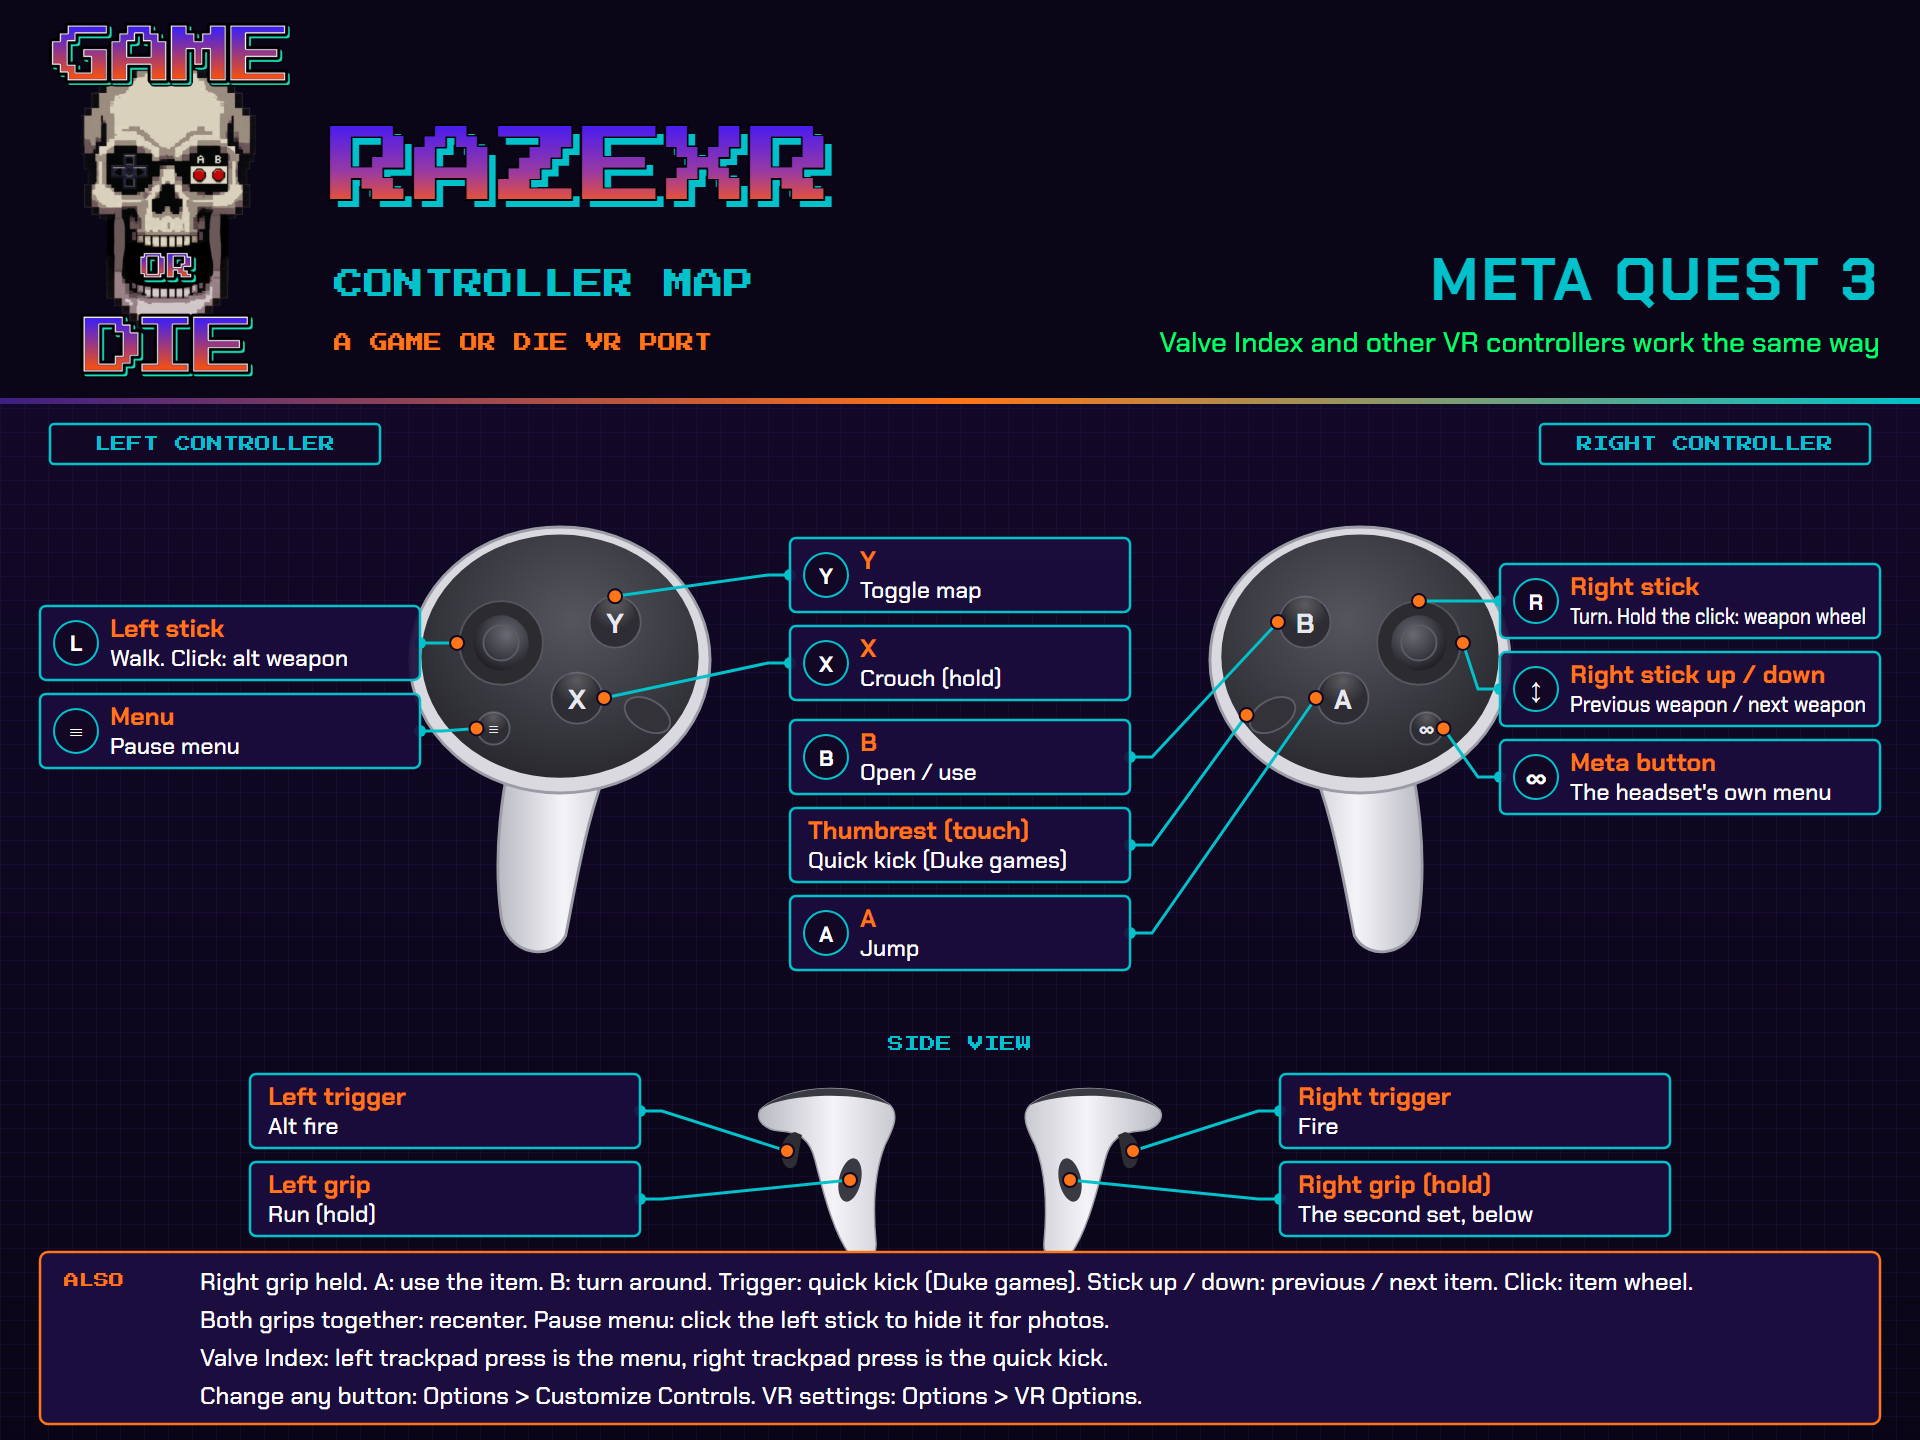
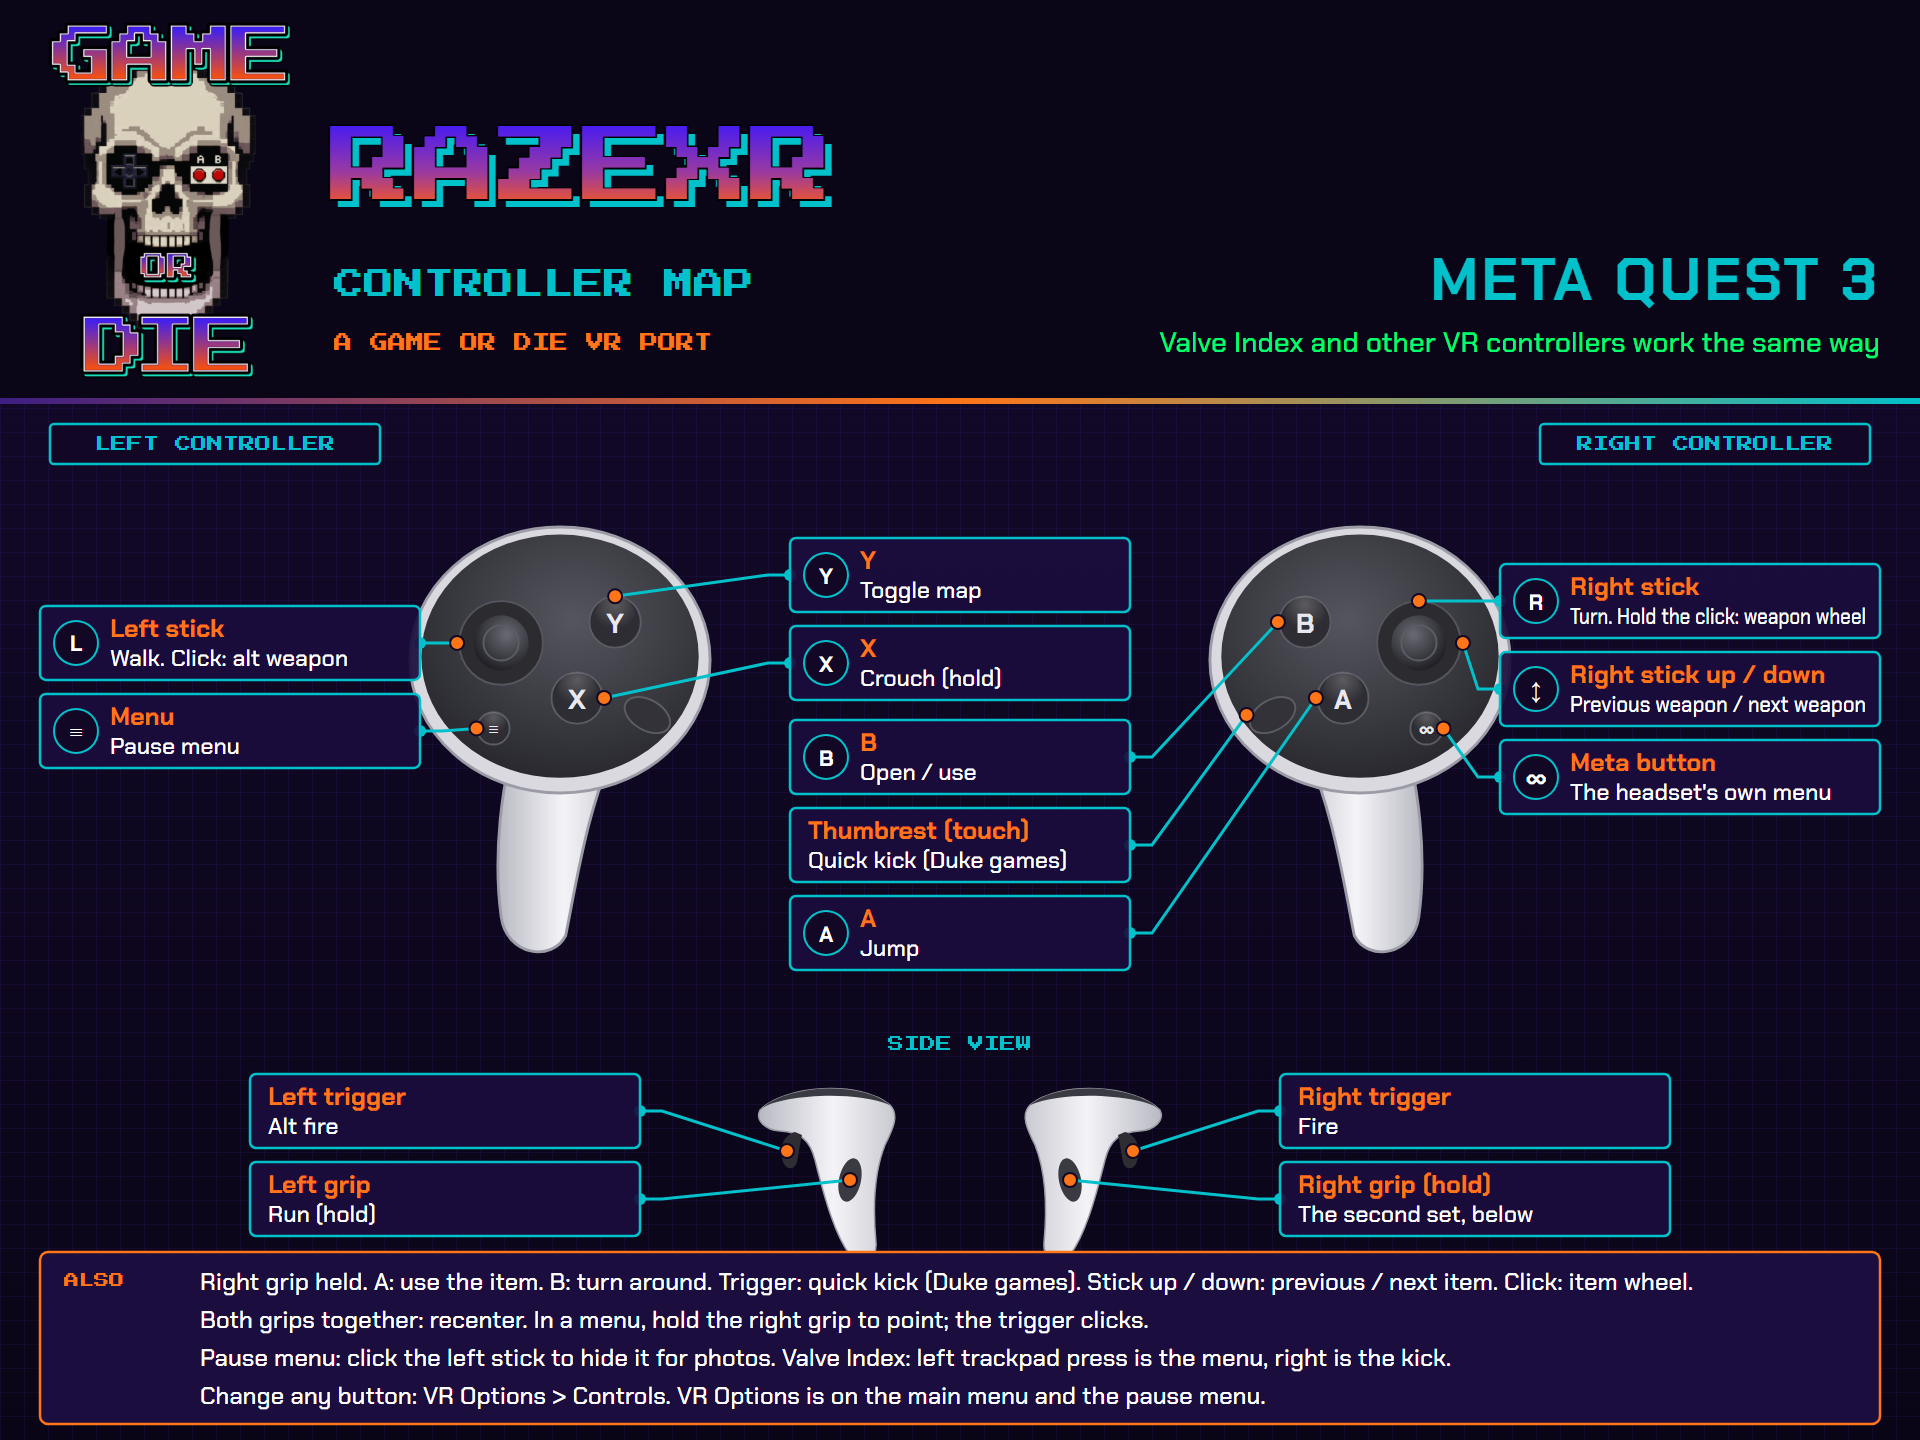
Menu pointer: hold the gun hand's grip in a menu to point, the trigger clicks

Changed region(s): [[0.0938, 0.9062, 0.75, 1.0]]

diff --git a/vr/RazeXR/VrInputDefault.cpp b/vr/RazeXR/VrInputDefault.cpp
@@ -43,6 +43,50 @@ extern float remote_movementUp;
 extern float positional_movementSideways;
 extern float positional_movementForward;
 extern float snapTurn;
+bool TBXR_MenuPanel(XrPosef* pose, float* width, float* height);	// TBXR_PC.cpp
+void VRPointer_Update(bool on, float u, float v, bool trigger);	// vr_pointer.cpp
+
+/*
+    PC branch: where the hand's aim meets the menu panel, as 0..1 across and
+    down from its top left. The panel is a quad turned only about the vertical
+    and seen from its +Z side; the aim looks down its own -Z.
+*/
+static bool MenuPointerHit(const XrPosef& aim, float* u, float* v)
+{
+    XrPosef panel;
+    float w, h;
+    if (!TBXR_MenuPanel(&panel, &w, &h)) return false;
+
+    const XrQuaternionf& a = aim.orientation;
+    const float dx = -2.0f * (a.x * a.z + a.w * a.y);
+    const float dy = -2.0f * (a.y * a.z - a.w * a.x);
+    const float dz = -(1.0f - 2.0f * (a.x * a.x + a.y * a.y));
+
+    const XrQuaternionf& q = panel.orientation;
+    const float nx = 2.0f * (q.x * q.z + q.w * q.y);			// its facing, +Z
+    const float ny = 2.0f * (q.y * q.z - q.w * q.x);
+    const float nz = 1.0f - 2.0f * (q.x * q.x + q.y * q.y);
+    const float rx = 1.0f - 2.0f * (q.y * q.y + q.z * q.z);		// across, +X
+    const float ry = 2.0f * (q.x * q.y + q.w * q.z);
+    const float rz = 2.0f * (q.x * q.z - q.w * q.y);
+    const float ux = 2.0f * (q.x * q.y - q.w * q.z);			// up, +Y
+    const float uy = 1.0f - 2.0f * (q.x * q.x + q.z * q.z);
+    const float uz = 2.0f * (q.y * q.z + q.w * q.x);
+
+    const float denom = dx * nx + dy * ny + dz * nz;
+    if (denom > -1e-4f) return false;							// pointing away from its face
+    const float px = panel.position.x - aim.position.x;
+    const float py = panel.position.y - aim.position.y;
+    const float pz = panel.position.z - aim.position.z;
+    const float t = (px * nx + py * ny + pz * nz) / denom;
+    if (t <= 0.0f) return false;
+    const float hx = aim.position.x + dx * t - panel.position.x;
+    const float hy = aim.position.y + dy * t - panel.position.y;
+    const float hz = aim.position.z + dz * t - panel.position.z;
+    *u = (hx * rx + hy * ry + hz * rz) / w + 0.5f;
+    *v = 0.5f - (hx * ux + hy * uy + hz * uz) / h;
+    return *u >= 0.0f && *u <= 1.0f && *v >= 0.0f && *v <= 1.0f;
+}
 extern float recenterYaw;
 void VR_RecenterAll();
 
@@ -424,6 +468,20 @@ void HandleInput_Default( int control_scheme, ovrInputStateTrackedRemote *pDomin
             }
         }
 
+        /*
+            PC branch: hold the gun hand's grip to point at the menu; the
+            trigger clicks (vr_pointer.cpp). The grip here has already waited
+            out the recenter chord, so squeezing both never points.
+        */
+        {
+            float u = 0.0f, v = 0.0f;
+            const bool pointing = passToMenu &&
+                (pDominantTrackedRemoteNew->Buttons & xrButton_GripTrigger) != 0 &&
+                MenuPointerHit(pDominantTracking->Pose, &u, &v);
+            VRPointer_Update(pointing, u, v,
+                pointing && (pDominantTrackedRemoteNew->Buttons & xrButton_Trigger) != 0);
+        }
+
         if (passToMenu)
         {
         ovrInputStateTrackedRemote* t[2][2] = { {pOffTrackedRemoteOld, pOffTrackedRemoteNew},
@@ -494,6 +552,8 @@ void HandleInput_Default( int control_scheme, ovrInputStateTrackedRemote *pDomin
     }
     else
     {
+        VRPointer_Update(false, 0.0f, 0.0f, false);	// no menu, no pointer
+
         //Dominant Hand - Primary keys (no grip pushed) - All keys are re-mappable, default bindngs are shown below
         {
             //Fire

diff --git a/source/core/vr_pointer.cpp b/source/core/vr_pointer.cpp
@@ -1,0 +1,101 @@
+/*
+	PC branch: point at menus.
+
+	Hold the gun hand's grip in any menu and its aim becomes a pointer: a dot
+	on the panel where the aim lands, and the trigger clicks there. Let go of
+	the grip and the dot goes; a tap of the grip keeps its old job, and the
+	sticks and buttons work the menu as before. Always-on pointing fought the
+	stick's own selection, so it is only while the grip is held.
+
+	The VR layer finds where the aim meets the panel (VrInputDefault.cpp, from
+	the quad TBXR_PC.cpp submitted). Here that becomes a point on the 2D
+	canvas - the whole canvas is what each panel shows, edge to edge - and the
+	menus get it as ordinary mouse events, which they already understand.
+
+	A click is released where it was pressed. Menus act on a release over the
+	row that was pressed, and a hand drifts while it pulls a trigger; a real
+	release a few pixels off would do nothing. A hand moved further than that
+	is dragging (a slider) and is released where it is.
+*/
+
+#include "vr_pointer.h"
+#include "d_eventbase.h"
+#include "menustate.h"
+#include "v_draw.h"
+#include "v_2ddrawer.h"
+
+void VR_Get2DMetrics(int* canvasW, int* canvasH, int* viewW, int* viewH);
+
+static bool shown = false;		// the dot is up
+static bool down = false;		// the trigger is held on the menu
+static bool dragging = false;	// and the hand has moved away since
+static int dotX = 0, dotY = 0;
+static int pressX = 0, pressY = 0;
+
+static void Post(int subtype, int x, int y)
+{
+	event_t ev = {};
+	ev.type = EV_GUI_Event;
+	ev.subtype = subtype;
+	ev.data1 = x;
+	ev.data2 = y;
+	D_PostEvent(&ev);
+}
+
+void VRPointer_Update(bool on, float u, float v, bool trigger)
+{
+	int cw = 0, ch = 0;
+	VR_Get2DMetrics(&cw, &ch, nullptr, nullptr);
+	if (!on || cw <= 0 || ch <= 0 || menuactive == MENU_Off)
+	{
+		if (down) Post(EV_GUI_LButtonUp, pressX, pressY);
+		down = dragging = shown = false;
+		return;
+	}
+
+	const int x = clamp((int)(u * cw), 0, cw - 1);
+	const int y = clamp((int)(v * ch), 0, ch - 1);
+	const int slop = cw / 30;	// about 1 degree of hand at the default size
+
+	if (down && !dragging && (abs(x - pressX) > slop || abs(y - pressY) > slop)) dragging = true;
+	if ((!shown || x != dotX || y != dotY) && (!down || dragging)) Post(EV_GUI_MouseMove, x, y);
+
+	if (trigger && !down)
+	{
+		Post(EV_GUI_LButtonDown, x, y);
+		down = true;
+		dragging = false;
+		pressX = x;
+		pressY = y;
+	}
+	else if (!trigger && down)
+	{
+		if (dragging) Post(EV_GUI_LButtonUp, x, y);
+		else Post(EV_GUI_LButtonUp, pressX, pressY);
+		down = dragging = false;
+	}
+	shown = true;
+	dotX = x;
+	dotY = y;
+}
+
+// A round dot: a dark rim, then the colour, in one-pixel rows.
+static void Disc(int cx, int cy, int r, PalEntry color)
+{
+	for (int dy = -r; dy <= r; dy++)
+	{
+		const int w = (int)sqrt((double)(r * r - dy * dy));
+		twod->AddColorOnlyQuad(cx - w, cy + dy, 2 * w + 1, 1, color);
+	}
+}
+
+void VRPointer_Draw()
+{
+	if (!shown || menuactive == MENU_Off) return;
+	int cw = 0, ch = 0;
+	VR_Get2DMetrics(&cw, &ch, nullptr, nullptr);
+	const int r = max(4, ch / 120);
+	Disc(dotX, dotY, r + max(2, r / 3), PalEntry(255, 0, 0, 0));
+	// Red while pressed.
+	Disc(dotX, dotY, r, down ? PalEntry(255, 255, 40, 40) : PalEntry(255, 3, 193, 203));
+}

diff --git a/vr/RazeXR/TBXR_PC.cpp b/vr/RazeXR/TBXR_PC.cpp
@@ -120,6 +120,10 @@ static float gMenuAnchorWorld[3] = {0, 0, 0};	// eye-0 camera at pause, map unit
 static bool gMenuLayerAcquired = false;	// Begin succeeded; End owes a Release
 static bool gMenuStatsPending = false;	// one readback per menu opening
 static bool gMenuGeomPending = false;	// one geometry line per menu opening
+// PC branch: the panel the 2D canvas was last shown on, for the menu pointer.
+static XrPosef gPanelPose;
+static XrExtent2Df gPanelSize = {0.0f, 0.0f};
+static bool gPanelUp = false;
 // PC branch: the recenter chord puts an open menu back in front of the eyes.
 void TBXR_ReanchorMenu();
 
@@ -1786,6 +1790,7 @@ void TBXR_submitFrame(void)
 	}
 	else gMenuAnchored = false;
 
+	gPanelUp = false;
 	if (!VR_UseScreenLayer() || VR_MenuInWorld())
 	{
 		XrCompositionLayerProjection projection_layer = {};
@@ -1938,6 +1943,9 @@ void TBXR_submitFrame(void)
 		quad_layer.pose.orientation = XrQuaternionf_CreateFromVectorAngle(axis, DEG2RAD(playerYaw));
 		quad_layer.pose.position = pos;
 		quad_layer.size = size;
+		gPanelPose = quad_layer.pose;
+		gPanelSize = quad_layer.size;
+		gPanelUp = true;
 
 		gAppState.Layers[gAppState.LayerCount++].Quad = quad_layer;
 	}
@@ -2000,6 +2008,9 @@ void TBXR_submitFrame(void)
 					gAppState.LayerCount + 1, ovrMaxLayerCount);
 		}
 		gAppState.Layers[gAppState.LayerCount++].Quad = menu_layer;
+		gPanelPose = menu_layer.pose;
+		gPanelSize = menu_layer.size;
+		gPanelUp = true;
 	}
 	else if (gMenuGeomPending && VR_MenuInWorld())
 	{
@@ -2097,3 +2108,14 @@ bool TBXR_VREnabled()
 
 // The next frame captures the head again, as when the menu opened.
 void TBXR_ReanchorMenu() { gMenuAnchored = false; }
+
+// PC branch: where the 2D canvas hung last frame, for the menu pointer
+// (VrInputDefault.cpp). Same space as the controllers' poses.
+bool TBXR_MenuPanel(XrPosef* pose, float* width, float* height)
+{
+	if (!gPanelUp || gPanelSize.width <= 0.0f || gPanelSize.height <= 0.0f) return false;
+	*pose = gPanelPose;
+	*width = gPanelSize.width;
+	*height = gPanelSize.height;
+	return true;
+}

diff --git a/tools/controls-picture.py b/tools/controls-picture.py
@@ -359,9 +359,9 @@ def quest_picture(b):
         job("grip + A", b, True), job("grip + B", b, True), job("grip + R trigger", b, True),
         job("grip + stick up", b, True).replace(" item", ""), job("grip + stick down", b, True))
     return p, [grip,
-               "Both grips together: recenter.   Pause menu: click the left stick to hide it for photos.",
-               "Valve Index: left trackpad press is the menu, right trackpad press is the quick kick.",
-               "Change any button: Options > Customize Controls.   VR settings: Options > VR Options."]
+               "Both grips together: recenter.   In a menu, hold the right grip to point; the trigger clicks.",
+               "Pause menu: click the left stick to hide it for photos.   Valve Index: left trackpad press is the menu, right is the kick.",
+               "Change any button: VR Options > Controls.   VR Options is on the main menu and the pause menu."]
 
 def main():
     b = binds()

diff --git a/source/core/vr_pointer.h b/source/core/vr_pointer.h
@@ -1,0 +1,14 @@
+#pragma once
+
+/*
+	PC branch: point at menus. Hold the gun hand's grip in a menu and its aim
+	is a laser at the panel: a dot where it lands, and the trigger clicks.
+	See vr_pointer.cpp.
+*/
+
+// Once a frame from the VR layer: on = the grip is held and the aim lands on
+// the menu panel at (u, v), 0..1 from its top left; trigger = pulled.
+void VRPointer_Update(bool on, float u, float v, bool trigger);
+
+// After the menu has drawn (DrawOverlays): the dot.
+void VRPointer_Draw();

diff --git a/source/core/mainloop.cpp b/source/core/mainloop.cpp
@@ -389,6 +389,8 @@ static void GameTicker()
 }
 
 
+void VRPointer_Draw();	// vr_pointer.cpp
+
 void DrawOverlays()
 {
 	NetUpdate();			// send out any new accumulation
@@ -399,6 +401,7 @@ void DrawOverlays()
 		CT_Drawer();
 		C_DrawConsole();
 		M_Drawer();
+		VRPointer_Draw();	// PC branch: the menu pointer's dot, over the menu
 		FStat::PrintStat(twod);
 	}
 	DrawRateStuff();

diff --git a/README.md b/README.md
@@ -263,6 +263,12 @@ Alt Weapon matters in Shadow Warrior — it re-selects the weapon already in you
 which is how you reach the quad shotgun and the nuke. In Duke and Blood it picks the
 alternate weapon in a shared slot.
 
+### Point at the menus
+
+**Hold your gun hand's grip in any menu** and your hand points at it: a dot shows where,
+and the trigger clicks. Let go of the grip and the dot goes. The sticks and buttons still
+work the menus as before.
+
 ### Recenter, and crouching for real
 
 **Squeeze both grips together to recenter**: where you stand becomes the middle, the way
